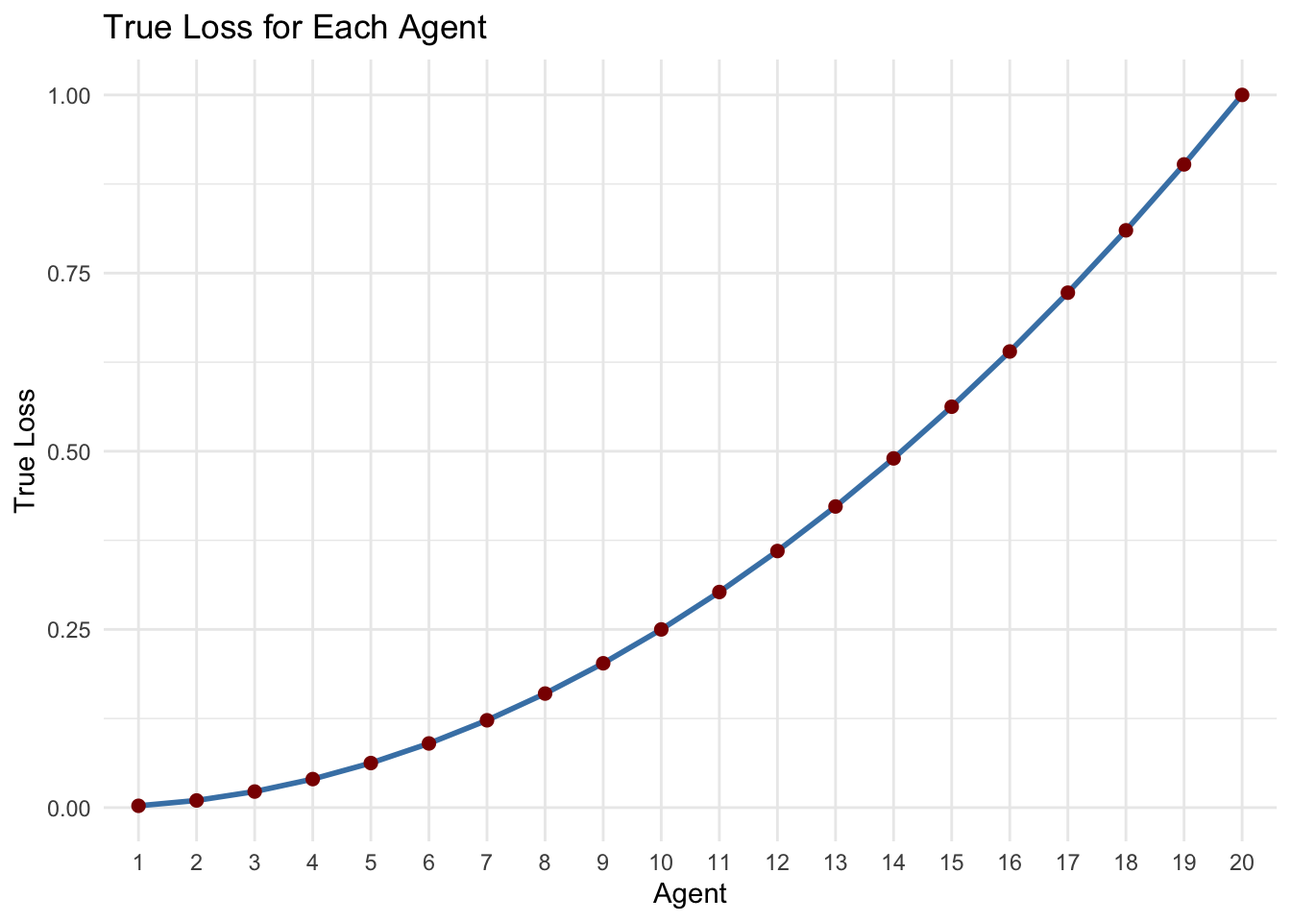
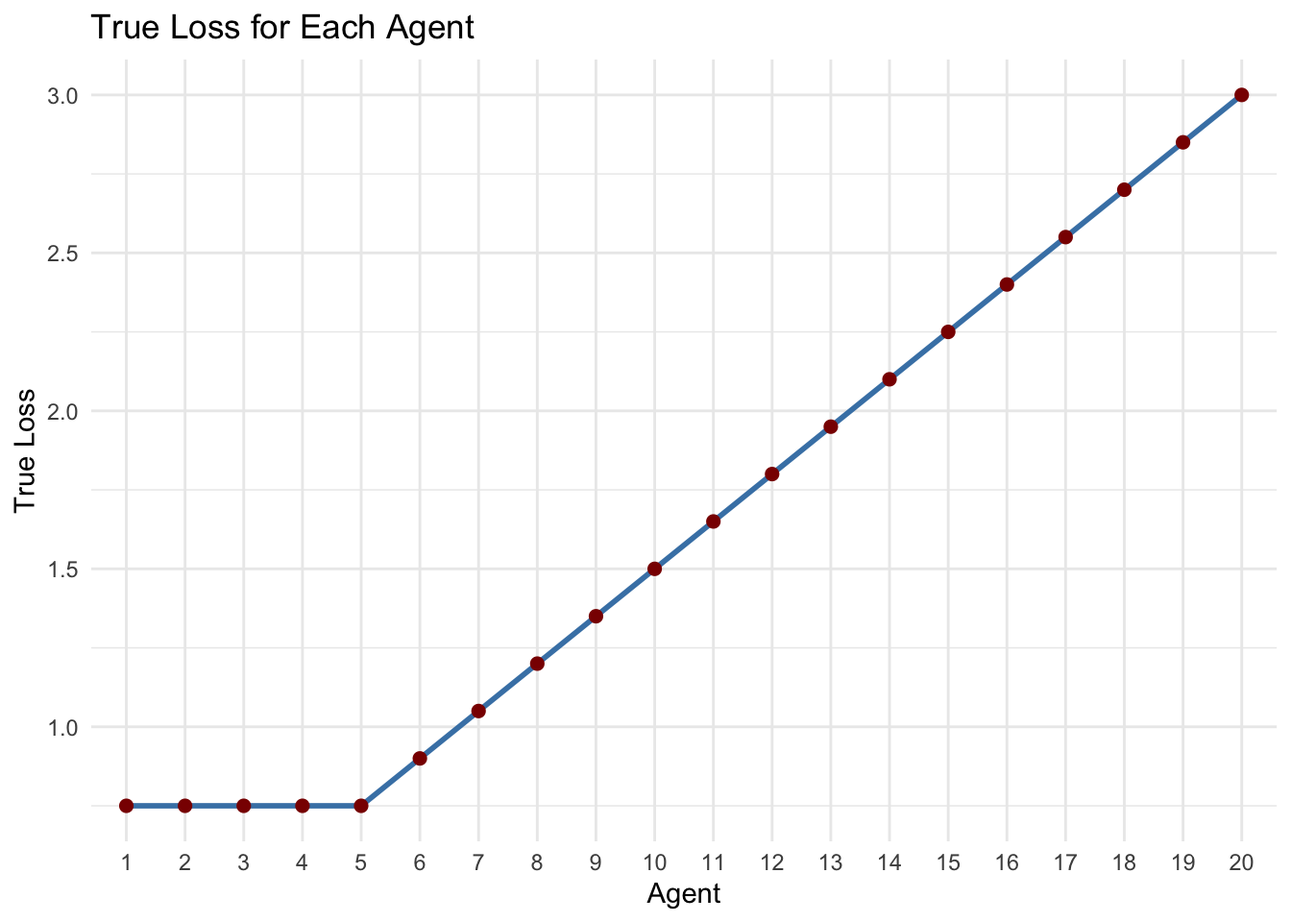
update tutorial

diff --git a/docs/demo_CSargmin.html b/docs/demo_CSargmin.html
@@ -6,7 +6,7 @@
 
 <meta name="viewport" content="width=device-width, initial-scale=1.0, user-scalable=yes">
 
-<meta name="author" content="Your Name">
+<meta name="author" content="Tianyu Zhang, Hao Lee and Jing Lei">
 
 <title>Argmin Inference with argminCS</title>
 <style>
@@ -92,7 +92,7 @@ pre > code.sourceCode > span > a:first-child::before { text-decoration: underlin
     <div>
     <div class="quarto-title-meta-heading">Author</div>
     <div class="quarto-title-meta-contents">
-             <p>Your Name </p>
+             <p>Tianyu Zhang, Hao Lee and Jing Lei </p>
           </div>
   </div>
     
@@ -105,32 +105,34 @@ pre > code.sourceCode > span > a:first-child::before { text-decoration: underlin
 </header>
 
 
-<p>Welcome to the tutorial of R package <code>argminCS</code>! Given noisy measures of several competing agents—they can be machine learning algorithms, voting candidates or maximum likelihood candidate parameters—we are interested in which one(s) of them achieving the best performance.</p>
-<p>Suppose we are comparing the performance of 20 agents, we have 200 loss noise-contaminated measurements for each of them.</p>
+<p>Welcome to the tutorial for the R package <code>argminCS</code>. When comparing noisy performance metrics across several competing agents - such as machine learning algorithms, voting candidates, or maximum likelihood parameter estimates - we are often interested in identifying the best-performing agents.</p>
+<p>Suppose we are evaluating 20 agents, and for each, we have 30 noisy loss measurements:</p>
 <div class="cell">
-<div class="sourceCode cell-code" id="cb1"><pre class="sourceCode r code-with-copy"><code class="sourceCode r"><span id="cb1-1"><a href="#cb1-1" aria-hidden="true" tabindex="-1"></a>sample_size <span class="ot">=</span> <span class="dv">200</span></span>
-<span id="cb1-2"><a href="#cb1-2" aria-hidden="true" tabindex="-1"></a>agent_num <span class="ot">=</span> <span class="dv">20</span></span>
+<div class="sourceCode cell-code" id="cb1"><pre class="sourceCode r code-with-copy"><code class="sourceCode r"><span id="cb1-1"><a href="#cb1-1" aria-hidden="true" tabindex="-1"></a>sample_size <span class="ot">&lt;-</span> <span class="dv">30</span></span>
+<span id="cb1-2"><a href="#cb1-2" aria-hidden="true" tabindex="-1"></a>agent_num <span class="ot">&lt;-</span> <span class="dv">20</span></span>
 <span id="cb1-3"><a href="#cb1-3" aria-hidden="true" tabindex="-1"></a></span>
-<span id="cb1-4"><a href="#cb1-4" aria-hidden="true" tabindex="-1"></a><span class="fu">set.seed</span>(<span class="dv">108</span>)</span>
-<span id="cb1-5"><a href="#cb1-5" aria-hidden="true" tabindex="-1"></a>true_loss <span class="ot">=</span> ((<span class="dv">1</span><span class="sc">:</span>agent_num)<span class="sc">/</span>agent_num)<span class="sc">^</span><span class="dv">2</span></span>
-<span id="cb1-6"><a href="#cb1-6" aria-hidden="true" tabindex="-1"></a>cov <span class="ot">=</span> <span class="fu">diag</span>(<span class="fu">length</span>(true_loss))</span>
-<span id="cb1-7"><a href="#cb1-7" aria-hidden="true" tabindex="-1"></a>data <span class="ot">=</span> MASS<span class="sc">::</span><span class="fu">mvrnorm</span>(sample_size, true_loss, cov)</span>
-<span id="cb1-8"><a href="#cb1-8" aria-hidden="true" tabindex="-1"></a><span class="fu">rownames</span>(data) <span class="ot">=</span> <span class="fu">paste0</span>(<span class="st">"Obs_"</span>, <span class="dv">1</span><span class="sc">:</span>sample_size)</span>
-<span id="cb1-9"><a href="#cb1-9" aria-hidden="true" tabindex="-1"></a><span class="fu">colnames</span>(data) <span class="ot">=</span> <span class="fu">paste0</span>(<span class="st">"Agent_"</span>, <span class="dv">1</span><span class="sc">:</span>agent_num)</span></code><button title="Copy to Clipboard" class="code-copy-button"><i class="bi"></i></button></pre></div>
+<span id="cb1-4"><a href="#cb1-4" aria-hidden="true" tabindex="-1"></a><span class="fu">set.seed</span>(<span class="dv">100</span>)</span>
+<span id="cb1-5"><a href="#cb1-5" aria-hidden="true" tabindex="-1"></a>true_loss <span class="ot">&lt;-</span> <span class="dv">3</span><span class="sc">*</span>((<span class="dv">1</span><span class="sc">:</span>agent_num) <span class="sc">/</span> agent_num)</span>
+<span id="cb1-6"><a href="#cb1-6" aria-hidden="true" tabindex="-1"></a>true_loss[<span class="dv">1</span><span class="sc">:</span><span class="dv">5</span>] <span class="ot">&lt;-</span> true_loss[<span class="dv">5</span>]</span>
+<span id="cb1-7"><a href="#cb1-7" aria-hidden="true" tabindex="-1"></a></span>
+<span id="cb1-8"><a href="#cb1-8" aria-hidden="true" tabindex="-1"></a>cov <span class="ot">&lt;-</span> <span class="fu">diag</span>(<span class="fu">length</span>(true_loss))</span>
+<span id="cb1-9"><a href="#cb1-9" aria-hidden="true" tabindex="-1"></a>data <span class="ot">&lt;-</span> MASS<span class="sc">::</span><span class="fu">mvrnorm</span>(sample_size, true_loss, cov)</span>
+<span id="cb1-10"><a href="#cb1-10" aria-hidden="true" tabindex="-1"></a><span class="fu">rownames</span>(data) <span class="ot">&lt;-</span> <span class="fu">paste0</span>(<span class="st">"Obs_"</span>, <span class="dv">1</span><span class="sc">:</span>sample_size)</span>
+<span id="cb1-11"><a href="#cb1-11" aria-hidden="true" tabindex="-1"></a><span class="fu">colnames</span>(data) <span class="ot">&lt;-</span> <span class="fu">paste0</span>(<span class="st">"Agent_"</span>, <span class="dv">1</span><span class="sc">:</span>agent_num)</span></code><button title="Copy to Clipboard" class="code-copy-button"><i class="bi"></i></button></pre></div>
 </div>
-<p>Here is the observed data.</p>
+<p>Here are the first few rows of the observed data:</p>
 <div class="cell">
-<div class="sourceCode cell-code" id="cb2"><pre class="sourceCode r code-with-copy"><code class="sourceCode r"><span id="cb2-1"><a href="#cb2-1" aria-hidden="true" tabindex="-1"></a><span class="fu">print</span>(data[<span class="dv">1</span><span class="sc">:</span><span class="dv">5</span>,<span class="dv">1</span><span class="sc">:</span><span class="dv">5</span>])</span></code><button title="Copy to Clipboard" class="code-copy-button"><i class="bi"></i></button></pre></div>
+<div class="sourceCode cell-code" id="cb2"><pre class="sourceCode r code-with-copy"><code class="sourceCode r"><span id="cb2-1"><a href="#cb2-1" aria-hidden="true" tabindex="-1"></a><span class="fu">print</span>(data[<span class="dv">1</span><span class="sc">:</span><span class="dv">5</span>, <span class="dv">1</span><span class="sc">:</span><span class="dv">5</span>])</span></code><button title="Copy to Clipboard" class="code-copy-button"><i class="bi"></i></button></pre></div>
 <div class="cell-output cell-output-stdout">
-<pre><code>         Agent_1    Agent_2    Agent_3    Agent_4     Agent_5
-Obs_1 -0.9433241 -0.3155622  0.8122737  0.6012614  1.04739675
-Obs_2 -0.1276607  0.4080168  0.6417950  0.1001458 -0.33183949
-Obs_3  1.1252646  0.7435761 -0.2231430  0.8091007 -1.24457611
-Obs_4  0.4936495  0.5179427  0.9584380 -0.9977787 -0.02076811
-Obs_5  1.4085057  0.1973783 -0.3347059  0.1026901  0.95850312</code></pre>
+<pre><code>         Agent_1    Agent_2   Agent_3    Agent_4    Agent_5
+Obs_1 0.08628958 1.52605633 0.7047454  0.7915007 -1.1894394
+Obs_2 0.62349182 0.02721128 1.1909000  1.8698977 -2.5707822
+Obs_3 2.39237424 1.25907541 2.9853762  0.9891629  1.6920819
+Obs_4 0.24290152 0.90461497 0.1638452 -0.2890839  0.7871514
+Obs_5 0.23151296 1.05924724 1.3493602  0.2582443  0.4914450</code></pre>
 </div>
 </div>
-<p>We know agent #1 should be the winner with average/true loss.</p>
+<p>Agents 1–5 have the lowest true losses.</p>
 <div class="cell">
 <div class="sourceCode cell-code" id="cb4"><pre class="sourceCode r code-with-copy"><code class="sourceCode r"><span id="cb4-1"><a href="#cb4-1" aria-hidden="true" tabindex="-1"></a><span class="fu">library</span>(ggplot2)</span>
 <span id="cb4-2"><a href="#cb4-2" aria-hidden="true" tabindex="-1"></a>df <span class="ot">&lt;-</span> <span class="fu">data.frame</span>(</span>
@@ -141,9 +143,11 @@ Obs_5  1.4085057  0.1973783 -0.3347059  0.1026901  0.95850312</code></pre>
 <span id="cb4-7"><a href="#cb4-7" aria-hidden="true" tabindex="-1"></a>    <span class="fu">geom_line</span>(<span class="at">color =</span> <span class="st">"steelblue"</span>, <span class="at">linewidth =</span> <span class="dv">1</span>) <span class="sc">+</span></span>
 <span id="cb4-8"><a href="#cb4-8" aria-hidden="true" tabindex="-1"></a>    <span class="fu">geom_point</span>(<span class="at">color =</span> <span class="st">"darkred"</span>, <span class="at">size =</span> <span class="dv">2</span>) <span class="sc">+</span></span>
 <span id="cb4-9"><a href="#cb4-9" aria-hidden="true" tabindex="-1"></a>    <span class="fu">theme_minimal</span>() <span class="sc">+</span></span>
-<span id="cb4-10"><a href="#cb4-10" aria-hidden="true" tabindex="-1"></a>    <span class="fu">labs</span>(<span class="at">title =</span> <span class="st">"True Loss for Each Agent"</span>,</span>
-<span id="cb4-11"><a href="#cb4-11" aria-hidden="true" tabindex="-1"></a>             <span class="at">x =</span> <span class="st">"Agent"</span>,</span>
-<span id="cb4-12"><a href="#cb4-12" aria-hidden="true" tabindex="-1"></a>             <span class="at">y =</span> <span class="st">"True Loss"</span>)</span></code><button title="Copy to Clipboard" class="code-copy-button"><i class="bi"></i></button></pre></div>
+<span id="cb4-10"><a href="#cb4-10" aria-hidden="true" tabindex="-1"></a>    <span class="fu">labs</span>(</span>
+<span id="cb4-11"><a href="#cb4-11" aria-hidden="true" tabindex="-1"></a>        <span class="at">title =</span> <span class="st">"True Loss for Each Agent"</span>,</span>
+<span id="cb4-12"><a href="#cb4-12" aria-hidden="true" tabindex="-1"></a>        <span class="at">x =</span> <span class="st">"Agent"</span>,</span>
+<span id="cb4-13"><a href="#cb4-13" aria-hidden="true" tabindex="-1"></a>        <span class="at">y =</span> <span class="st">"True Loss"</span></span>
+<span id="cb4-14"><a href="#cb4-14" aria-hidden="true" tabindex="-1"></a>    )</span></code><button title="Copy to Clipboard" class="code-copy-button"><i class="bi"></i></button></pre></div>
 <div class="cell-output-display">
 <div>
 <figure class="figure">
@@ -152,62 +156,118 @@ Obs_5  1.4085057  0.1973783 -0.3347059  0.1026901  0.95850312</code></pre>
 </div>
 </div>
 </div>
-<p>And we can easily use argmin of the simple sample mean as our estimate of the best performer.</p>
+<p>A simple approach is to use the agent with the smallest sample mean loss as the estimated best:</p>
 <div class="cell">
 <div class="sourceCode cell-code" id="cb5"><pre class="sourceCode r code-with-copy"><code class="sourceCode r"><span id="cb5-1"><a href="#cb5-1" aria-hidden="true" tabindex="-1"></a>col_avg <span class="ot">&lt;-</span> <span class="fu">colMeans</span>(data)</span>
 <span id="cb5-2"><a href="#cb5-2" aria-hidden="true" tabindex="-1"></a>winner_est <span class="ot">&lt;-</span> <span class="fu">which.min</span>(col_avg)</span>
 <span id="cb5-3"><a href="#cb5-3" aria-hidden="true" tabindex="-1"></a><span class="fu">cat</span>(<span class="st">"Estimated winner: Agent"</span>, winner_est, <span class="st">"with average loss"</span>, col_avg[winner_est], <span class="st">"</span><span class="sc">\n</span><span class="st">"</span>)</span></code><button title="Copy to Clipboard" class="code-copy-button"><i class="bi"></i></button></pre></div>
 <div class="cell-output cell-output-stdout">
-<pre><code>Estimated winner: Agent 2 with average loss -0.1070976 </code></pre>
+<pre><code>Estimated winner: Agent 5 with average loss 0.5119673 </code></pre>
 </div>
-<div class="sourceCode cell-code" id="cb7"><pre class="sourceCode r code-with-copy"><code class="sourceCode r"><span id="cb7-1"><a href="#cb7-1" aria-hidden="true" tabindex="-1"></a><span class="cf">if</span> (winner_est <span class="sc">!=</span> <span class="dv">1</span>) <span class="fu">cat</span>(<span class="st">"Opps: True winner should be Agent 1</span><span class="sc">\n</span><span class="st">"</span>)</span></code><button title="Copy to Clipboard" class="code-copy-button"><i class="bi"></i></button></pre></div>
+<div class="sourceCode cell-code" id="cb7"><pre class="sourceCode r code-with-copy"><code class="sourceCode r"><span id="cb7-1"><a href="#cb7-1" aria-hidden="true" tabindex="-1"></a><span class="fu">cat</span>(<span class="st">"True winners are Agents 1 to 5</span><span class="sc">\n</span><span class="st">"</span>)</span></code><button title="Copy to Clipboard" class="code-copy-button"><i class="bi"></i></button></pre></div>
 <div class="cell-output cell-output-stdout">
-<pre><code>Opps: True winner should be Agent 1</code></pre>
+<pre><code>True winners are Agents 1 to 5</code></pre>
 </div>
 </div>
-<p>Since the data we observed in real application is always noise contaminated, it is important to quantify the uncertainty in our winner selection. The <code>argminCS</code> package provides a way to construct a confidence set for the best agent.</p>
+<p>However, due to noise in the observations, it’s important to quantify the uncertainty in this winner selection. The <code>argminCS</code> package provides tools to construct a confidence set for the best agent.</p>
 <div class="cell">
-<div class="sourceCode cell-code" id="cb9"><pre class="sourceCode r code-with-copy"><code class="sourceCode r"><span id="cb9-1"><a href="#cb9-1" aria-hidden="true" tabindex="-1"></a><span class="cf">if</span> (<span class="sc">!</span><span class="fu">requireNamespace</span>(<span class="st">"argminCS"</span>, <span class="at">quietly =</span> <span class="cn">TRUE</span>)) {</span>
-<span id="cb9-2"><a href="#cb9-2" aria-hidden="true" tabindex="-1"></a>    <span class="fu">install.packages</span>(<span class="st">"argminCS"</span>)</span>
-<span id="cb9-3"><a href="#cb9-3" aria-hidden="true" tabindex="-1"></a>}</span>
-<span id="cb9-4"><a href="#cb9-4" aria-hidden="true" tabindex="-1"></a><span class="fu">library</span>(argminCS)</span>
-<span id="cb9-5"><a href="#cb9-5" aria-hidden="true" tabindex="-1"></a><span class="co"># CS.argmin(data, method='SML') #CS.argmin is not working</span></span></code><button title="Copy to Clipboard" class="code-copy-button"><i class="bi"></i></button></pre></div>
-</div>
-<div class="cell">
-<div class="sourceCode cell-code" id="cb10"><pre class="sourceCode r code-with-copy"><code class="sourceCode r"><span id="cb10-1"><a href="#cb10-1" aria-hidden="true" tabindex="-1"></a>dimension <span class="ot">=</span> <span class="dv">4</span></span>
-<span id="cb10-2"><a href="#cb10-2" aria-hidden="true" tabindex="-1"></a>difference.matrix <span class="ot">&lt;-</span> <span class="fu">matrix</span>(<span class="fu">rep</span>(data[, dimension], agent_num<span class="dv">-1</span>), </span>
-<span id="cb10-3"><a href="#cb10-3" aria-hidden="true" tabindex="-1"></a>                            <span class="at">ncol =</span> agent_num<span class="dv">-1</span>, </span>
-<span id="cb10-4"><a href="#cb10-4" aria-hidden="true" tabindex="-1"></a>                            <span class="at">byrow =</span> <span class="cn">FALSE</span>) <span class="sc">-</span> data[, <span class="sc">-</span>dimension]</span>
-<span id="cb10-5"><a href="#cb10-5" aria-hidden="true" tabindex="-1"></a><span class="fu">argmin.HT</span>(difference.matrix, <span class="at">method=</span><span class="st">'SML'</span>)</span></code><button title="Copy to Clipboard" class="code-copy-button"><i class="bi"></i></button></pre></div>
+<div class="sourceCode cell-code" id="cb9"><pre class="sourceCode r code-with-copy"><code class="sourceCode r"><span id="cb9-1"><a href="#cb9-1" aria-hidden="true" tabindex="-1"></a><span class="fu">library</span>(argminCS)</span>
+<span id="cb9-2"><a href="#cb9-2" aria-hidden="true" tabindex="-1"></a>confidence_set <span class="ot">&lt;-</span> <span class="fu">CS.argmin</span>(data, <span class="at">method =</span> <span class="st">"SML"</span>)</span>
+<span id="cb9-3"><a href="#cb9-3" aria-hidden="true" tabindex="-1"></a><span class="fu">print</span>(confidence_set)</span></code><button title="Copy to Clipboard" class="code-copy-button"><i class="bi"></i></button></pre></div>
 <div class="cell-output cell-output-stdout">
-<pre><code>$test.stat.scale
-[1] -1.162869
-
-$critical.value
-[1] 1.644854
-
-$std
-[1] 0.7084998
-
-$ans
-[1] "Accept"
-
-$lambda
-[1] 5.656854
-
-$lambda.capped
-[1] FALSE
-
-$residual.slepian
-[1] 0.05538992
-
-$variance.bound
-[1] 0.02660854
-
-$test.stat.centered
-NULL</code></pre>
+<pre><code>[1] 1 2 3 4 5 6 7 8 9</code></pre>
 </div>
 </div>
+<p>We now repeat the procedure 100 times to estimate how often each agent is included in the confidence set:</p>
+<div class="cell">
+<div class="sourceCode cell-code" id="cb11"><pre class="sourceCode r code-with-copy"><code class="sourceCode r"><span id="cb11-1"><a href="#cb11-1" aria-hidden="true" tabindex="-1"></a><span class="fu">set.seed</span>(<span class="dv">123</span>)</span>
+<span id="cb11-2"><a href="#cb11-2" aria-hidden="true" tabindex="-1"></a>repeat_N <span class="ot">&lt;-</span> <span class="dv">100</span></span>
+<span id="cb11-3"><a href="#cb11-3" aria-hidden="true" tabindex="-1"></a>results <span class="ot">&lt;-</span> <span class="fu">matrix</span>(<span class="dv">0</span>, <span class="at">nrow =</span> repeat_N, <span class="at">ncol =</span> agent_num)</span>
+<span id="cb11-4"><a href="#cb11-4" aria-hidden="true" tabindex="-1"></a><span class="fu">colnames</span>(results) <span class="ot">&lt;-</span> <span class="fu">paste0</span>(<span class="st">"Agent_"</span>, <span class="dv">1</span><span class="sc">:</span>agent_num)</span>
+<span id="cb11-5"><a href="#cb11-5" aria-hidden="true" tabindex="-1"></a></span>
+<span id="cb11-6"><a href="#cb11-6" aria-hidden="true" tabindex="-1"></a><span class="cf">for</span> (i <span class="cf">in</span> <span class="dv">1</span><span class="sc">:</span>repeat_N) {</span>
+<span id="cb11-7"><a href="#cb11-7" aria-hidden="true" tabindex="-1"></a>    <span class="co"># Generate new data</span></span>
+<span id="cb11-8"><a href="#cb11-8" aria-hidden="true" tabindex="-1"></a>    data_i <span class="ot">&lt;-</span> MASS<span class="sc">::</span><span class="fu">mvrnorm</span>(sample_size, true_loss, cov)</span>
+<span id="cb11-9"><a href="#cb11-9" aria-hidden="true" tabindex="-1"></a>    <span class="co"># Compute confidence set</span></span>
+<span id="cb11-10"><a href="#cb11-10" aria-hidden="true" tabindex="-1"></a>    cs_i <span class="ot">&lt;-</span> <span class="fu">CS.argmin</span>(data_i, <span class="at">method =</span> <span class="st">"SML"</span>)</span>
+<span id="cb11-11"><a href="#cb11-11" aria-hidden="true" tabindex="-1"></a>    <span class="co"># Mark agents in the confidence set</span></span>
+<span id="cb11-12"><a href="#cb11-12" aria-hidden="true" tabindex="-1"></a>    results[i, <span class="fu">as.numeric</span>(cs_i)] <span class="ot">&lt;-</span> <span class="dv">1</span></span>
+<span id="cb11-13"><a href="#cb11-13" aria-hidden="true" tabindex="-1"></a>}</span>
+<span id="cb11-14"><a href="#cb11-14" aria-hidden="true" tabindex="-1"></a>inclusion_prop <span class="ot">&lt;-</span> <span class="fu">colSums</span>(results) <span class="sc">/</span> repeat_N</span></code><button title="Copy to Clipboard" class="code-copy-button"><i class="bi"></i></button></pre></div>
+</div>
+<div class="cell">
+<div class="sourceCode cell-code" id="cb12"><pre class="sourceCode r code-with-copy"><code class="sourceCode r"><span id="cb12-1"><a href="#cb12-1" aria-hidden="true" tabindex="-1"></a>df_inclusion <span class="ot">&lt;-</span> <span class="fu">data.frame</span>(</span>
+<span id="cb12-2"><a href="#cb12-2" aria-hidden="true" tabindex="-1"></a>    <span class="at">Agent =</span> <span class="fu">factor</span>(<span class="dv">1</span><span class="sc">:</span>agent_num),</span>
+<span id="cb12-3"><a href="#cb12-3" aria-hidden="true" tabindex="-1"></a>    <span class="at">Inclusion =</span> inclusion_prop</span>
+<span id="cb12-4"><a href="#cb12-4" aria-hidden="true" tabindex="-1"></a>)</span>
+<span id="cb12-5"><a href="#cb12-5" aria-hidden="true" tabindex="-1"></a></span>
+<span id="cb12-6"><a href="#cb12-6" aria-hidden="true" tabindex="-1"></a><span class="fu">ggplot</span>(df_inclusion, <span class="fu">aes</span>(<span class="at">x =</span> Agent, <span class="at">y =</span> Inclusion)) <span class="sc">+</span></span>
+<span id="cb12-7"><a href="#cb12-7" aria-hidden="true" tabindex="-1"></a>    <span class="fu">geom_bar</span>(<span class="at">stat =</span> <span class="st">"identity"</span>, <span class="at">fill =</span> <span class="st">"skyblue"</span>) <span class="sc">+</span></span>
+<span id="cb12-8"><a href="#cb12-8" aria-hidden="true" tabindex="-1"></a>    <span class="fu">labs</span>(</span>
+<span id="cb12-9"><a href="#cb12-9" aria-hidden="true" tabindex="-1"></a>        <span class="at">title =</span> <span class="st">"Confidence Set Inclusion Rate by Agent"</span>,</span>
+<span id="cb12-10"><a href="#cb12-10" aria-hidden="true" tabindex="-1"></a>        <span class="at">x =</span> <span class="st">"Agent"</span>,</span>
+<span id="cb12-11"><a href="#cb12-11" aria-hidden="true" tabindex="-1"></a>        <span class="at">y =</span> <span class="st">"Proportion"</span></span>
+<span id="cb12-12"><a href="#cb12-12" aria-hidden="true" tabindex="-1"></a>    ) <span class="sc">+</span></span>
+<span id="cb12-13"><a href="#cb12-13" aria-hidden="true" tabindex="-1"></a>    <span class="fu">theme_minimal</span>() <span class="sc">+</span></span>
+<span id="cb12-14"><a href="#cb12-14" aria-hidden="true" tabindex="-1"></a>    <span class="fu">scale_y_continuous</span>(<span class="at">labels =</span> scales<span class="sc">::</span><span class="fu">percent_format</span>(<span class="at">accuracy =</span> <span class="dv">1</span>))</span></code><button title="Copy to Clipboard" class="code-copy-button"><i class="bi"></i></button></pre></div>
+<div class="cell-output-display">
+<div>
+<figure class="figure">
+<p><img src="demo_CSargmin_files/figure-html/unnamed-chunk-7-1.png" class="img-fluid figure-img" width="672"></p>
+</figure>
+</div>
+</div>
+</div>
+<p>Next, we increase the sample size:</p>
+<div class="cell">
+<div class="sourceCode cell-code" id="cb13"><pre class="sourceCode r code-with-copy"><code class="sourceCode r"><span id="cb13-1"><a href="#cb13-1" aria-hidden="true" tabindex="-1"></a>sample_size_large <span class="ot">&lt;-</span> <span class="dv">500</span></span></code><button title="Copy to Clipboard" class="code-copy-button"><i class="bi"></i></button></pre></div>
+</div>
+<p>Repeat the simulation at the larger sample size:</p>
+<div class="cell">
+<div class="sourceCode cell-code" id="cb14"><pre class="sourceCode r code-with-copy"><code class="sourceCode r"><span id="cb14-1"><a href="#cb14-1" aria-hidden="true" tabindex="-1"></a><span class="fu">set.seed</span>(<span class="dv">123</span>)</span>
+<span id="cb14-2"><a href="#cb14-2" aria-hidden="true" tabindex="-1"></a>results <span class="ot">&lt;-</span> <span class="fu">matrix</span>(<span class="dv">0</span>, <span class="at">nrow =</span> repeat_N, <span class="at">ncol =</span> agent_num)</span>
+<span id="cb14-3"><a href="#cb14-3" aria-hidden="true" tabindex="-1"></a><span class="fu">colnames</span>(results) <span class="ot">&lt;-</span> <span class="fu">paste0</span>(<span class="st">"Agent_"</span>, <span class="dv">1</span><span class="sc">:</span>agent_num)</span>
+<span id="cb14-4"><a href="#cb14-4" aria-hidden="true" tabindex="-1"></a></span>
+<span id="cb14-5"><a href="#cb14-5" aria-hidden="true" tabindex="-1"></a><span class="cf">for</span> (i <span class="cf">in</span> <span class="dv">1</span><span class="sc">:</span>repeat_N) {</span>
+<span id="cb14-6"><a href="#cb14-6" aria-hidden="true" tabindex="-1"></a>    <span class="co"># Generate new data</span></span>
+<span id="cb14-7"><a href="#cb14-7" aria-hidden="true" tabindex="-1"></a>    data_i <span class="ot">&lt;-</span> MASS<span class="sc">::</span><span class="fu">mvrnorm</span>(sample_size_large, true_loss, cov)</span>
+<span id="cb14-8"><a href="#cb14-8" aria-hidden="true" tabindex="-1"></a>    <span class="co"># Compute confidence set</span></span>
+<span id="cb14-9"><a href="#cb14-9" aria-hidden="true" tabindex="-1"></a>    cs_i <span class="ot">&lt;-</span> <span class="fu">CS.argmin</span>(data_i, <span class="at">method =</span> <span class="st">"SML"</span>)</span>
+<span id="cb14-10"><a href="#cb14-10" aria-hidden="true" tabindex="-1"></a>    <span class="co"># Mark agents in the confidence set</span></span>
+<span id="cb14-11"><a href="#cb14-11" aria-hidden="true" tabindex="-1"></a>    results[i, <span class="fu">as.numeric</span>(cs_i)] <span class="ot">&lt;-</span> <span class="dv">1</span></span>
+<span id="cb14-12"><a href="#cb14-12" aria-hidden="true" tabindex="-1"></a>}</span>
+<span id="cb14-13"><a href="#cb14-13" aria-hidden="true" tabindex="-1"></a>inclusion_prop_large <span class="ot">&lt;-</span> <span class="fu">colSums</span>(results) <span class="sc">/</span> repeat_N</span></code><button title="Copy to Clipboard" class="code-copy-button"><i class="bi"></i></button></pre></div>
+</div>
+<p>With a larger sample size, suboptimal agents are included less frequently in the confidence set. In fact, in our paper, we theoretically showed that each of the optimal agents is included with probability exceeding 0.95.</p>
+<div class="cell">
+<div class="sourceCode cell-code" id="cb15"><pre class="sourceCode r code-with-copy"><code class="sourceCode r"><span id="cb15-1"><a href="#cb15-1" aria-hidden="true" tabindex="-1"></a>df_inclusion <span class="ot">&lt;-</span> <span class="fu">data.frame</span>(</span>
+<span id="cb15-2"><a href="#cb15-2" aria-hidden="true" tabindex="-1"></a>    <span class="at">Agent =</span> <span class="fu">factor</span>(<span class="dv">1</span><span class="sc">:</span>agent_num),</span>
+<span id="cb15-3"><a href="#cb15-3" aria-hidden="true" tabindex="-1"></a>    <span class="at">Inclusion =</span> inclusion_prop_large</span>
+<span id="cb15-4"><a href="#cb15-4" aria-hidden="true" tabindex="-1"></a>)</span>
+<span id="cb15-5"><a href="#cb15-5" aria-hidden="true" tabindex="-1"></a></span>
+<span id="cb15-6"><a href="#cb15-6" aria-hidden="true" tabindex="-1"></a><span class="fu">ggplot</span>(df_inclusion, <span class="fu">aes</span>(<span class="at">x =</span> Agent, <span class="at">y =</span> Inclusion)) <span class="sc">+</span></span>
+<span id="cb15-7"><a href="#cb15-7" aria-hidden="true" tabindex="-1"></a>    <span class="fu">geom_bar</span>(<span class="at">stat =</span> <span class="st">"identity"</span>, <span class="at">fill =</span> <span class="st">"skyblue"</span>) <span class="sc">+</span></span>
+<span id="cb15-8"><a href="#cb15-8" aria-hidden="true" tabindex="-1"></a>    <span class="fu">labs</span>(</span>
+<span id="cb15-9"><a href="#cb15-9" aria-hidden="true" tabindex="-1"></a>        <span class="at">title =</span> <span class="st">"Confidence Set Inclusion Rate by Agent"</span>,</span>
+<span id="cb15-10"><a href="#cb15-10" aria-hidden="true" tabindex="-1"></a>        <span class="at">x =</span> <span class="st">"Agent"</span>,</span>
+<span id="cb15-11"><a href="#cb15-11" aria-hidden="true" tabindex="-1"></a>        <span class="at">y =</span> <span class="st">"Proportion"</span></span>
+<span id="cb15-12"><a href="#cb15-12" aria-hidden="true" tabindex="-1"></a>    ) <span class="sc">+</span></span>
+<span id="cb15-13"><a href="#cb15-13" aria-hidden="true" tabindex="-1"></a>    <span class="fu">theme_minimal</span>() <span class="sc">+</span></span>
+<span id="cb15-14"><a href="#cb15-14" aria-hidden="true" tabindex="-1"></a>    <span class="fu">scale_y_continuous</span>(<span class="at">labels =</span> scales<span class="sc">::</span><span class="fu">percent_format</span>(<span class="at">accuracy =</span> <span class="dv">1</span>))</span></code><button title="Copy to Clipboard" class="code-copy-button"><i class="bi"></i></button></pre></div>
+<div class="cell-output-display">
+<div>
+<figure class="figure">
+<p><img src="demo_CSargmin_files/figure-html/unnamed-chunk-13-1.png" class="img-fluid figure-img" width="672"></p>
+</figure>
+</div>
+</div>
+</div>
+<section id="references" class="level2">
+<h2 class="anchored" data-anchor-id="references">References</h2>
+<ul>
+<li>Zhang, T., Lee, H., &amp; Lei, J.. <em>Winners with Confidence: Discrete Argmin Inference with an Application to Model Selection</em>.</li>
+</ul>
+</section>
 
 </main>
 <!-- /main column -->
